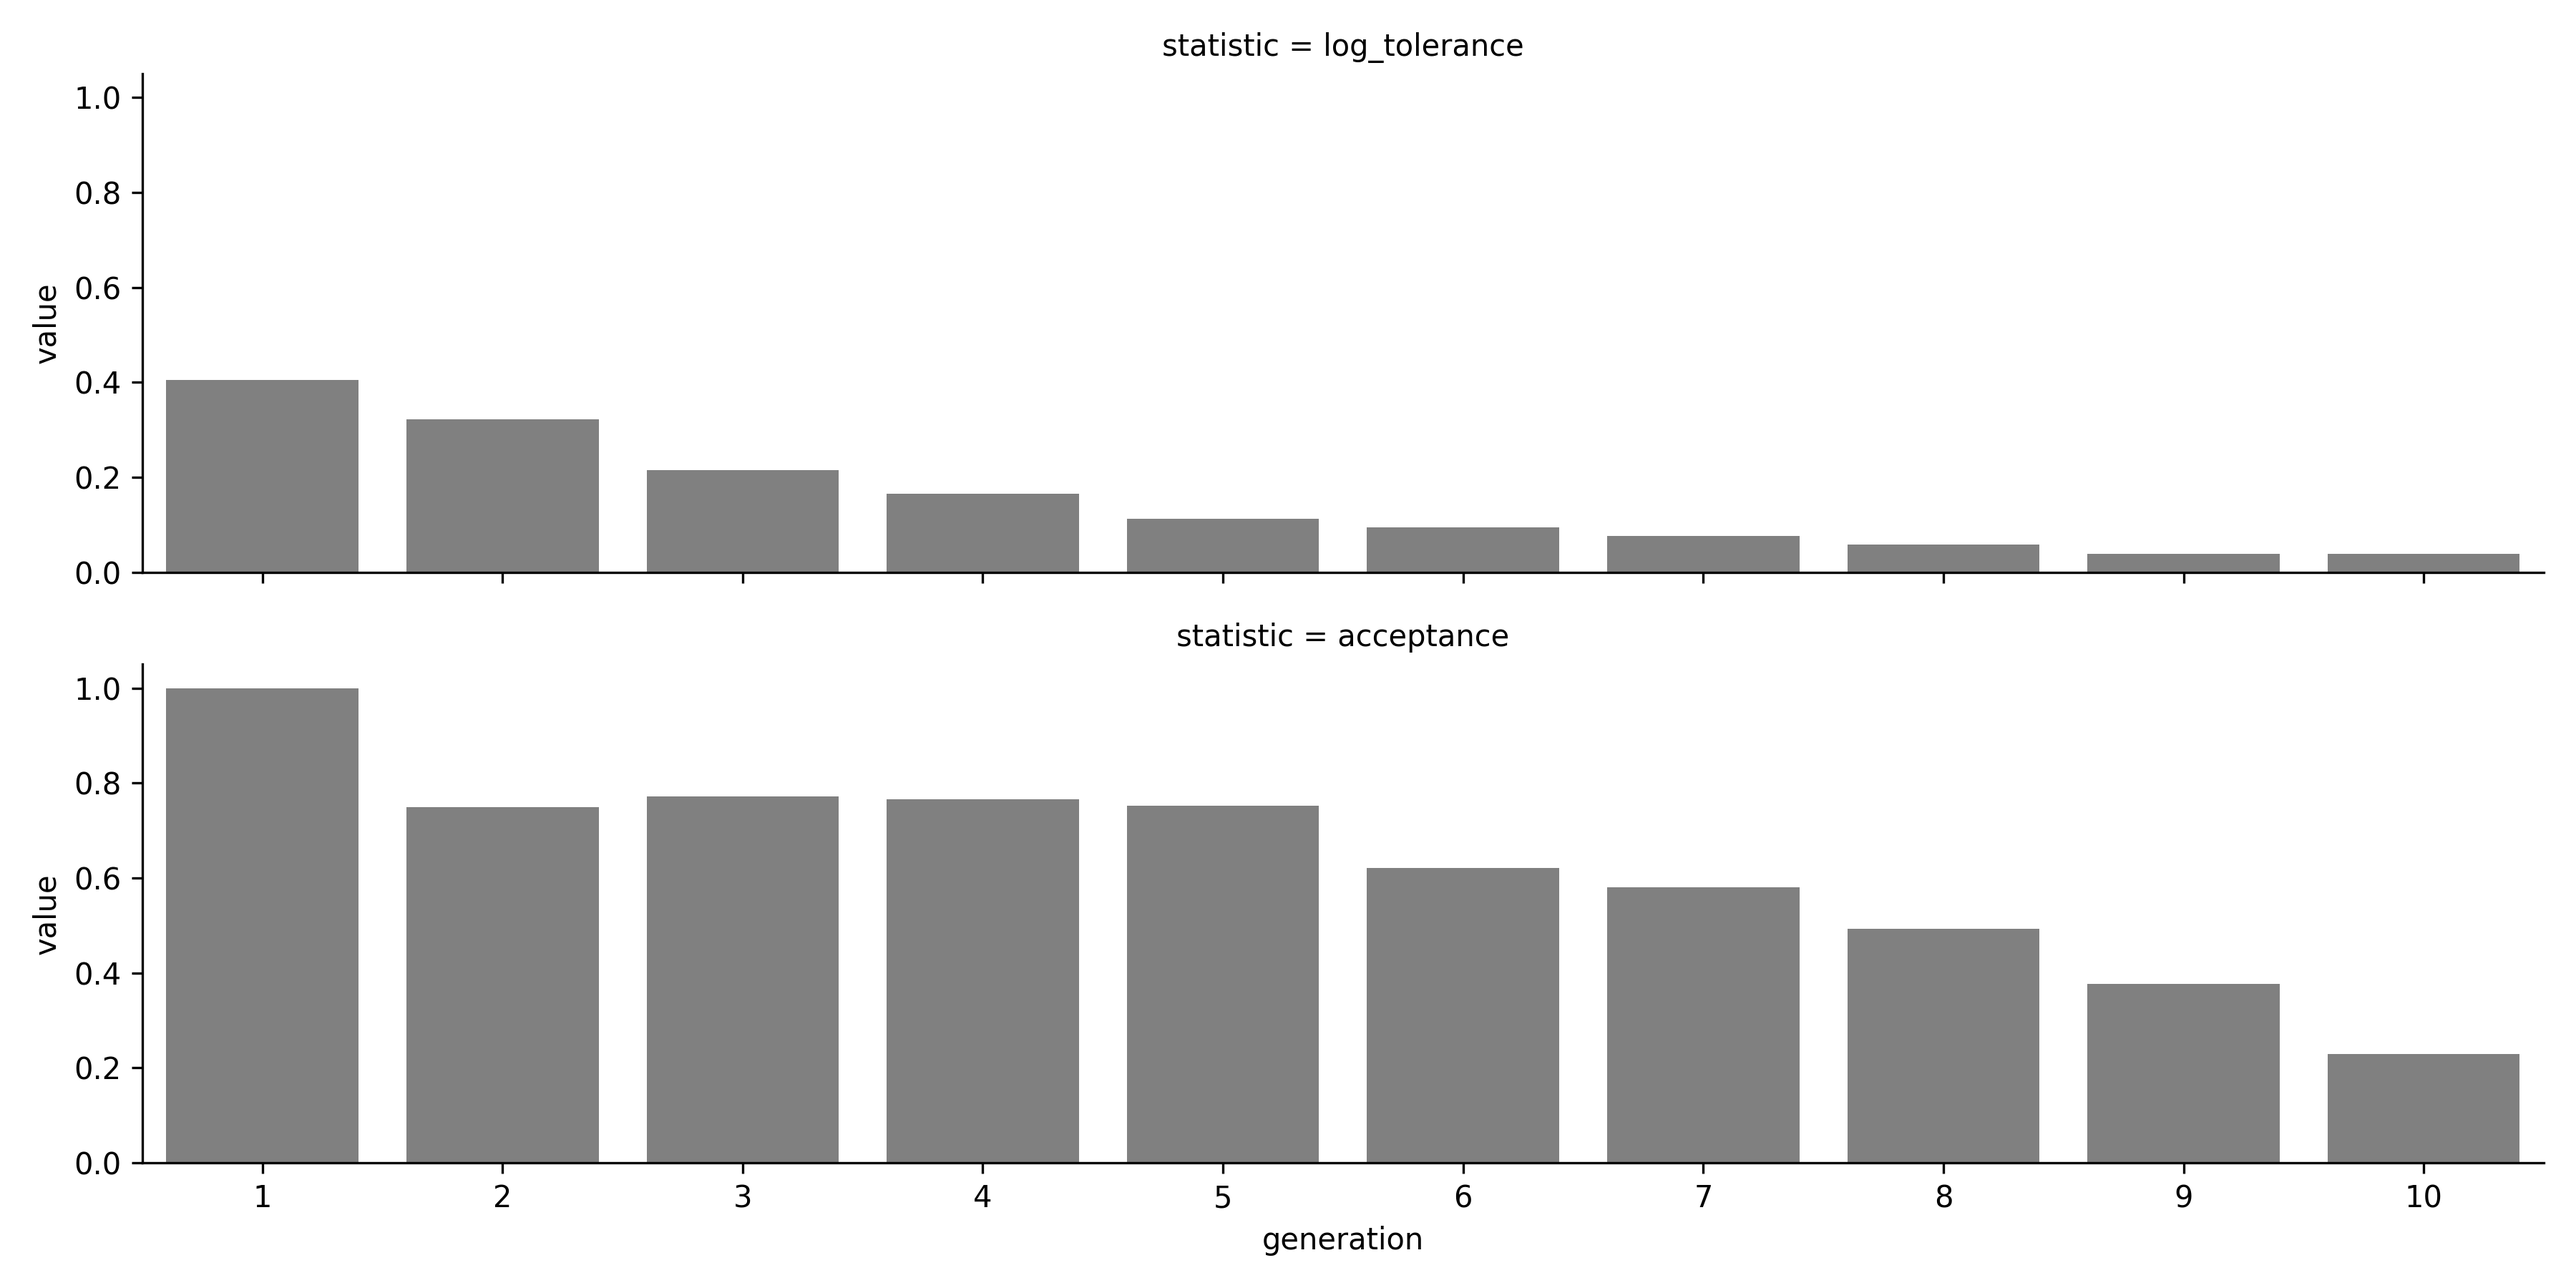
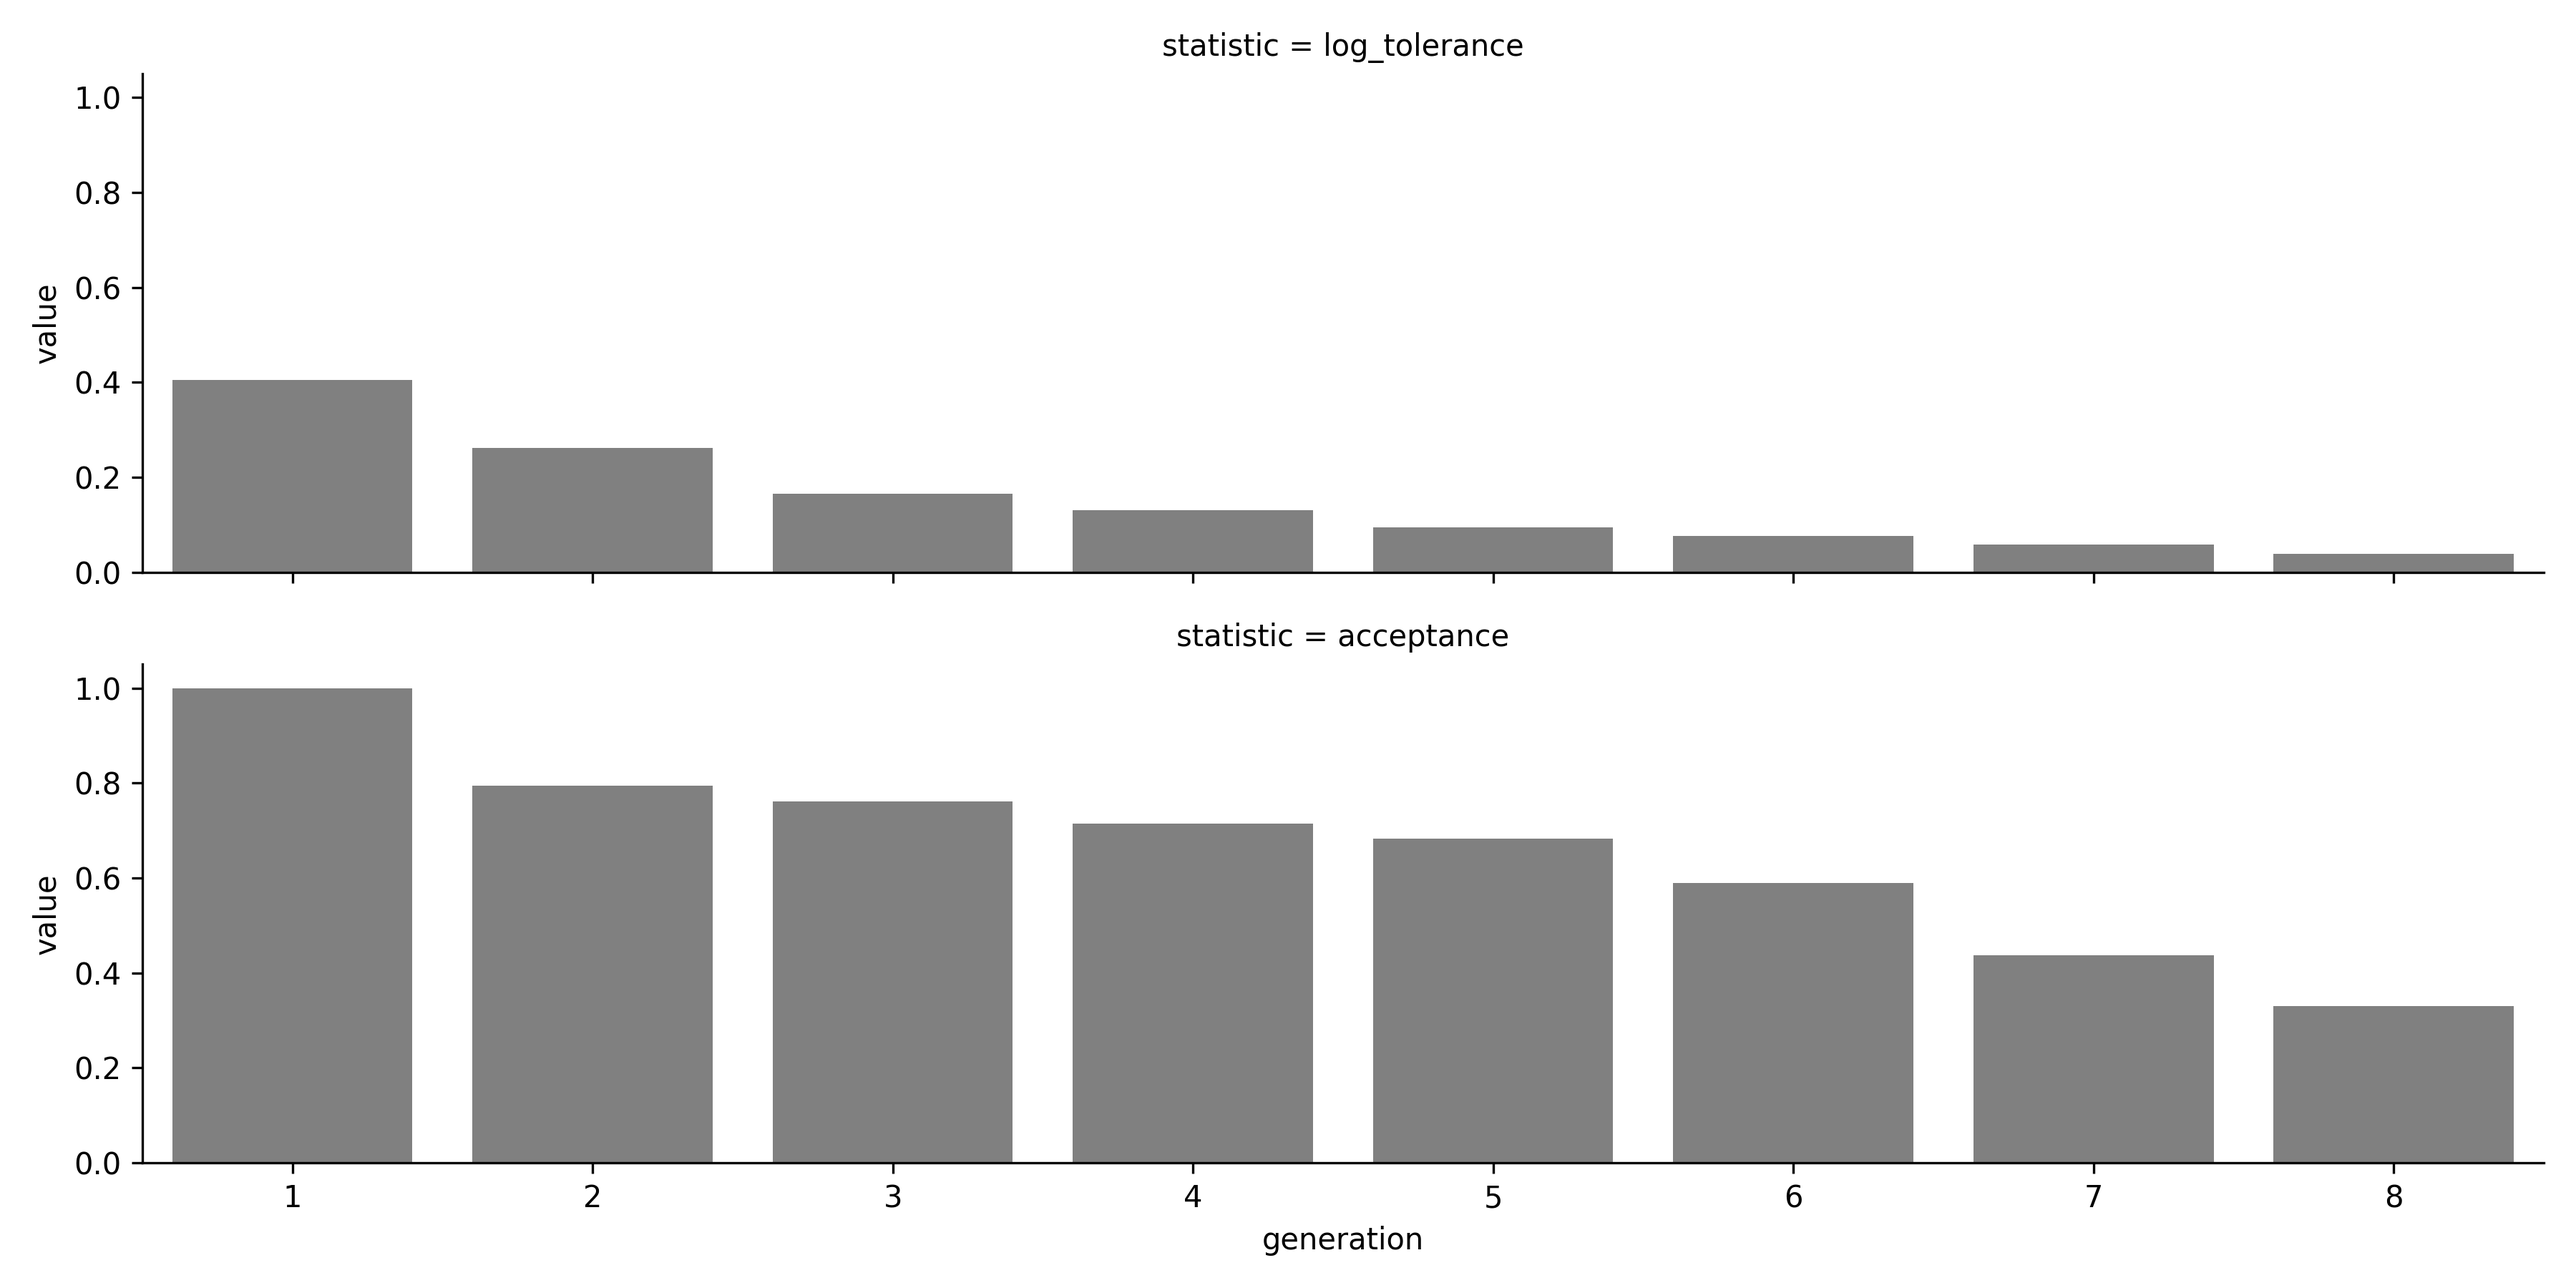
OLCM plot working

diff --git a/examples/olcm_test_plot/main.rs b/examples/olcm_test_plot/main.rs
@@ -7,20 +7,21 @@ use serde::{Deserialize, Serialize};
 use serde_json::json;
 
 #[derive(Deserialize, Debug)]
-struct TestParams{
+struct TestParams {
     x: f64,
     y: f64,
 }
 
 impl Vectorable<2> for TestParams {
     fn to_column_vector(&self) -> SMatrix<f64, 2, 1> {
-       Vector2::new(self.x, self.y)
-   }
+        Vector2::new(self.x, self.y)
+    }
 }
 
 pub fn main() -> ABCDResult<()> {
-    let path = "resources/test/covariance/particles.json";
-    let generation: Generation<TestParams> = serde_json::from_str(&std::fs::read_to_string(&path).unwrap()).unwrap();
+    let path = "resources/test/olcm/particles.json";
+    let generation: Generation<TestParams> =
+        serde_json::from_str(&std::fs::read_to_string(&path).unwrap()).unwrap();
 
     let population = generation.pop;
     let candidate = &population.normalised_particles()[0];
@@ -31,13 +32,15 @@ pub fn main() -> ABCDResult<()> {
     //https://rust-random.github.io/rand/rand/rngs/index.html#:~:text=OsRng%20is%20a%20stateless%20interface,with%20periodic%20seeding%20from%20OsRng%20.
     let mut rng = rand::rngs::OsRng;
     let dist = olcm.distribution()?;
-    let samples: Vec<_> = (1..=1000).map(|_| {
-        let v = dist.sample(&mut rng).iter().cloned().collect::<Vec<f64>>();
-        P2d{x: v[0], y: v[1]}
-    }).collect();
-    
+    let samples: Vec<_> = (1..=1000)
+        .map(|_| {
+            let v = dist.sample(&mut rng).iter().cloned().collect::<Vec<f64>>();
+            P2d { x: v[0], y: v[1] }
+        })
+        .collect();
+
     #[derive(Serialize)]
-    struct P2d{
+    struct P2d {
         x: f64,
         y: f64,
     }
@@ -46,16 +49,23 @@ pub fn main() -> ABCDResult<()> {
         "samples": samples,
         "mean": P2d{x: olcm.mean[0], y: olcm.mean[1]}
     });
-    
+
     let path = Path::new("out");
     if !path.exists() {
         std::fs::create_dir_all(path)?;
     }
-    std::fs::write(path.join("samples.json"), serde_json::to_string_pretty(&json)?)?;
+    std::fs::write(
+        path.join("samples.json"),
+        serde_json::to_string_pretty(&json)?,
+    )?;
 
     // Run the plotting script
-    Command::new("resources/test/covariance/plot/run.sh").spawn()?;
+    let output = Command::new("examples/olcm_test_plot/plot/run.sh")
+        .spawn()
+        .expect("Failed to execute plotting script, but still generated results data in out/ dir.")
+        .wait_with_output()?;
+
+    println!("Output from Python: {:?}", output);
 
     Ok(())
-
 }

diff --git a/src/covariance.rs b/src/covariance.rs
@@ -2,16 +2,10 @@
 
 #[cfg(test)]
 mod tests {
-    use std::{path::Path, process::Command};
-
     use nalgebra::{Matrix2, SMatrix, Vector2};
-    use path_absolutize::Absolutize;
-    use rand::distributions::Distribution;
-    use serde::{Deserialize, Serialize};
-    use serde_json::json;
-    use statrs::distribution::MultivariateNormal;
+    use serde::Deserialize;
 
-    use crate::{error::ABCDResult, types::Vectorable, Generation};
+    use crate::{types::Vectorable, Generation};
 
     #[derive(Deserialize, Debug)]
     struct TestParams{
@@ -27,7 +21,7 @@ mod tests {
 
     #[test]
     fn test_covariance_matrix() {
-        let path = "resources/test/covariance/particles.json";
+        let path = "resources/test/olcm/particles.json";
         let generation: Generation<TestParams> = serde_json::from_str(&std::fs::read_to_string(&path).unwrap()).unwrap();
 
         let population = generation.pop;
@@ -36,36 +30,5 @@ mod tests {
         let olcm = population.olcm(candidate);
         assert_eq!(Matrix2::new(4.8, -13.6, -13.6, 44.1), olcm.local_covariance);
         assert_eq!(Vector2::new(10.0, 100.1), olcm.mean);
-
-        // //TODO use ThreadRng or SmallRng?
-        // //https://rust-random.github.io/rand/rand/rngs/index.html#:~:text=OsRng%20is%20a%20stateless%20interface,with%20periodic%20seeding%20from%20OsRng%20.
-        // let mut rng = rand::rngs::OsRng;
-        // let dist = olcm.distribution()?;
-        // let samples: Vec<_> = (1..=1000).map(|_| {
-        //     let v = dist.sample(&mut rng).iter().cloned().collect::<Vec<f64>>();
-        //     P2d{x: v[0], y: v[1]}
-        // }).collect();
-        
-        // #[derive(Serialize)]
-        // struct P2d{
-        //     x: f64,
-        //     y: f64,
-        // }
-
-        // let json = json!({
-        //     "samples": samples,
-        //     "mean": P2d{x: olcm.mean[0], y: olcm.mean[1]}
-        // });
-        
-        // let path = Path::new("out");
-        // if !path.exists() {
-        //     std::fs::create_dir_all(path)?;
-        // }
-        // std::fs::write(path.join("samples.json"), serde_json::to_string_pretty(&json)?)?;
-
-        // // Run the plotting script
-        // Command::new("resources/test/covariance/plot/run.sh").spawn()?;
-
-        // Ok(())
     }
 }

diff --git a/examples/olcm_test_plot/plot/script.py b/examples/olcm_test_plot/plot/script.py
@@ -1,24 +1,29 @@
 import json
-import glob
-import re
 import io
 import polars as pl
 import os
 import seaborn as sns
 import matplotlib.pyplot as plt
-import math
 import matplotlib
+from pathlib import Path
 
 this_dir = os.path.dirname(os.path.realpath(__file__))
 os.chdir(this_dir)
 
-with open("../particles.json") as f:
+project_dir = Path("..", "..", "..")
+
+particles_file = project_dir / "resources/test/olcm/particles.json"
+samples_file = project_dir / "out/samples.json"
+
+assert particles_file.exists()
+with open(particles_file) as f:
     raw = json.load(f)
 params = [p["parameters"] for p in raw["pop"]["normalised_particles"]]
 gen = pl.read_json(io.StringIO(json.dumps(params)))
 print(gen)
 
-with open("../../../../out/samples.json") as f:
+assert samples_file.exists()
+with open(samples_file) as f:
     raw = json.load(f)
 samples = pl.read_json(io.StringIO(json.dumps(raw["samples"])))
 mean = pl.read_json(io.StringIO(json.dumps(raw["mean"])))
@@ -30,4 +35,4 @@ sns.scatterplot(data=gen, x="x", y="y")
 sns.kdeplot(data=samples, x="x", y="y", color='black', linewidths=0.5, bw_adjust=2.5).set_title("Proposal density given previous particles")
 sns.scatterplot(data=mean, x="x", y="y", color='red')
 fig.tight_layout()
-plt.savefig("../../../../out/plot.png", format='png', dpi=300)
+plt.savefig("plot.png", format='png', dpi=300)

diff --git a/src/types.rs b/src/types.rs
@@ -94,7 +94,7 @@ impl<P> Population<P> {
         assert!(cov.upper_triangle().transpose() == cov.lower_triangle());
 
         OLCM{
-            local_covariance: cov + bias,
+            local_covariance,
             mean,
         }
         

diff --git a/src/storage/s3/tests.rs b/src/storage/s3/tests.rs
@@ -547,7 +547,7 @@ fn test_load_accepted_particles() {
 
         let w2 = Particle {
             parameters: DummyParams::new(3, 4.),
-            score: 300.0,
+            score: 200.0,
             weight: 1.567,
         };
 
